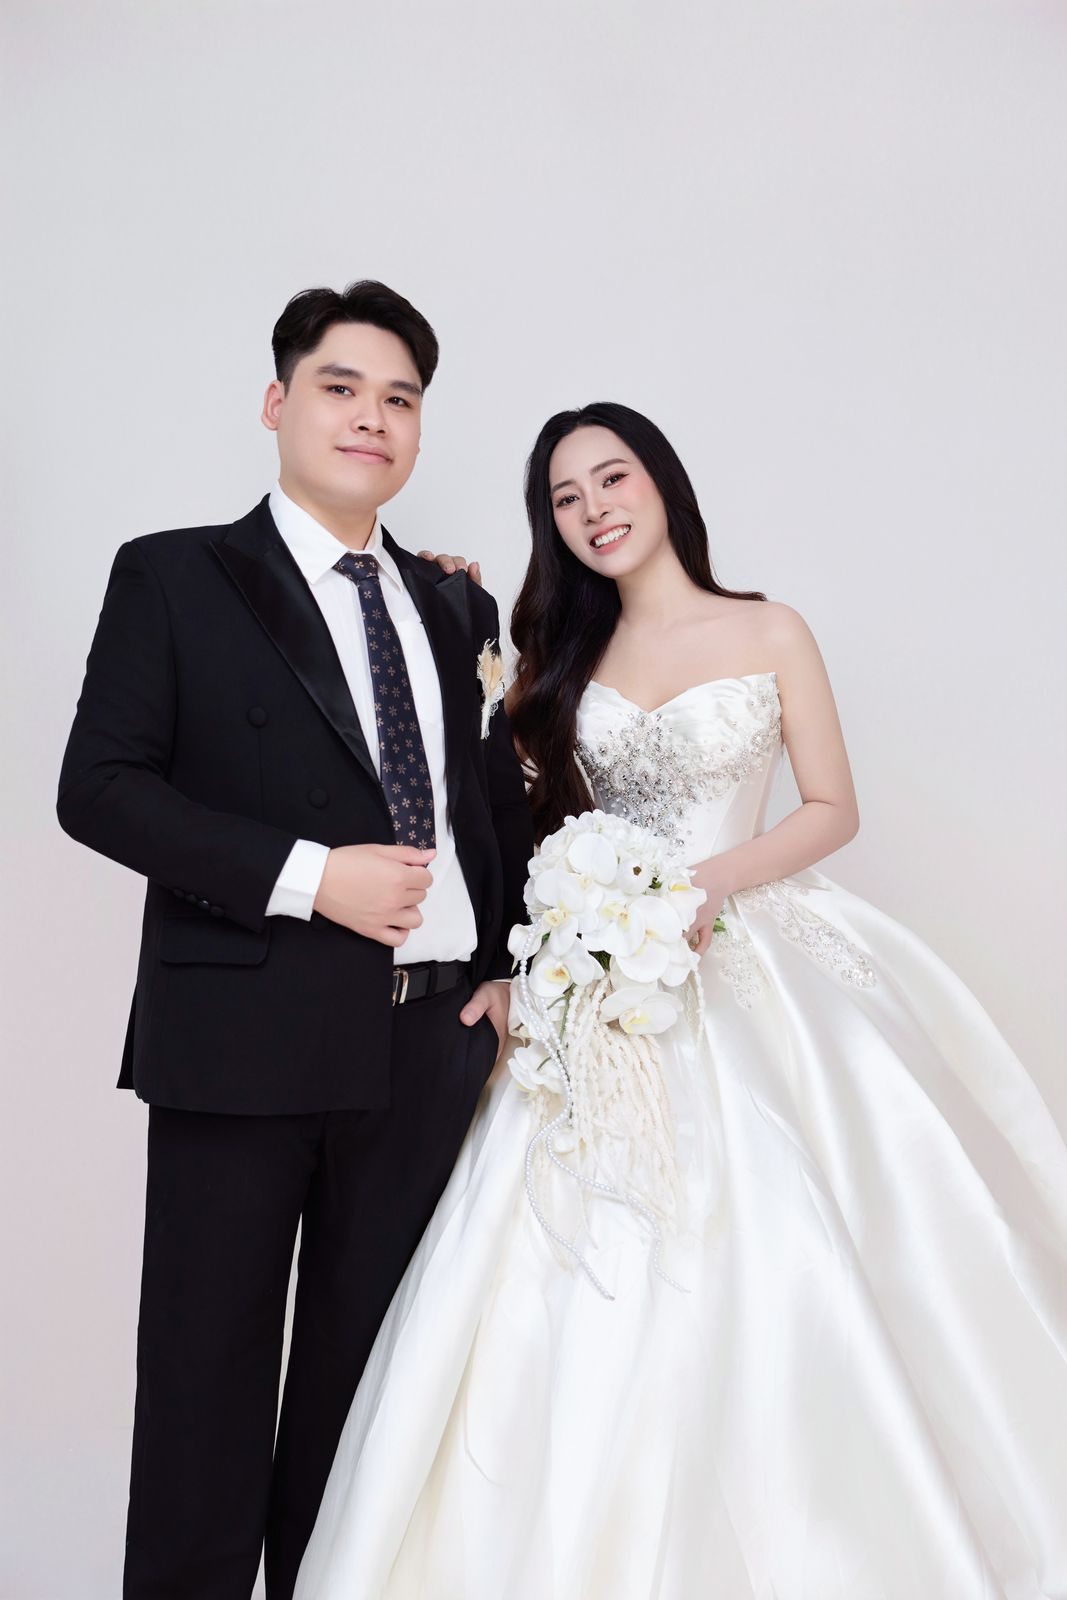
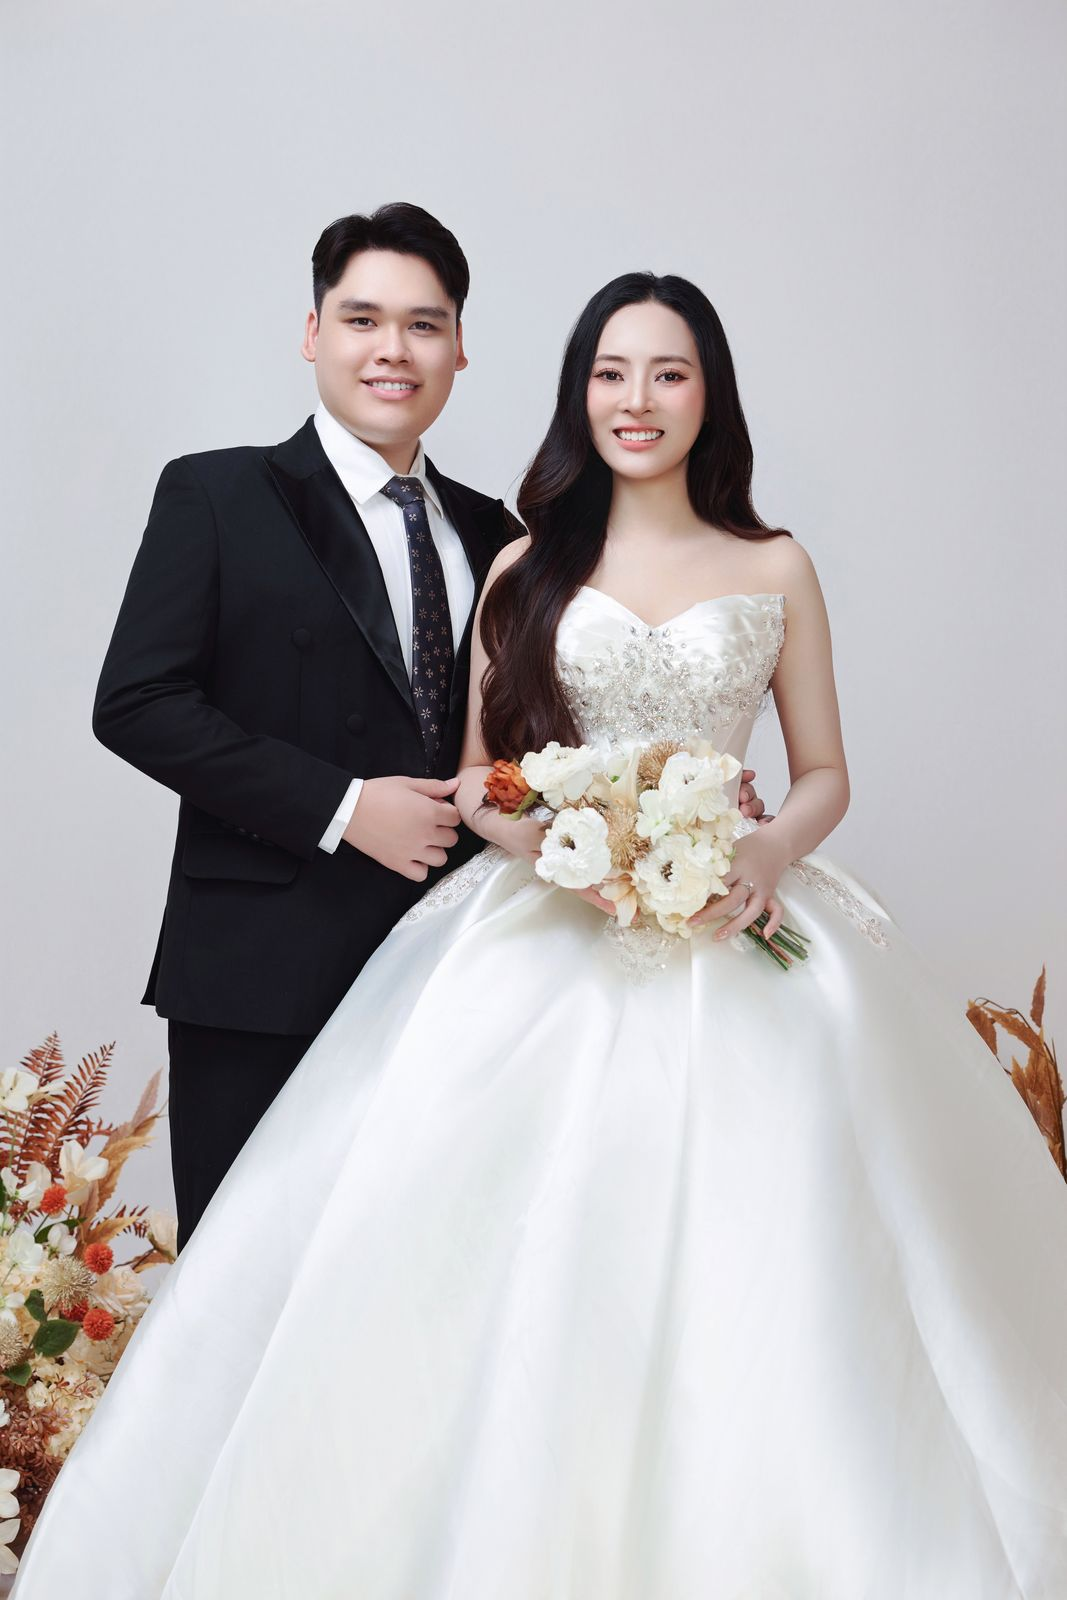
Đổi chỗ ảnh bìa và ảnh khung vòm (3882 lên bìa, 4036 vào khung vòm)
Claude-Session: https://claude.ai/code/session_013oSfTHRkbAXp6xpsoK4V9D

diff --git a/index.html b/index.html
@@ -32,7 +32,7 @@
   <link rel="preconnect" href="https://fonts.googleapis.com" />
   <link rel="preconnect" href="https://fonts.gstatic.com" crossorigin />
   <link href="https://fonts.googleapis.com/css2?family=Dancing+Script:wght@500;700&family=Playfair+Display:ital,wght@0,400;0,600;1,400&family=Be+Vietnam+Pro:wght@300;400;500;600&display=swap" rel="stylesheet" />
-  <link rel="preload" as="image" href="images/cover.jpg" fetchpriority="high" />
+  <link rel="preload" as="image" href="images/cover.jpg?v=2" fetchpriority="high" />
   <link rel="stylesheet" href="assets/css/style.css?v=13" />
 </head>
 <body class="locked">
@@ -162,7 +162,7 @@
   </div>
 
   <!-- Đổi số v=... mỗi khi sửa CSS/JS để trình duyệt tải bản mới -->
-  <script src="assets/js/config.js?v=12"></script>
+  <script src="assets/js/config.js?v=13"></script>
   <script src="assets/js/main.js?v=12"></script>
 </body>
 </html>

diff --git a/assets/js/config.js b/assets/js/config.js
@@ -96,8 +96,8 @@ window.WEDDING = {
    * Gợi ý nhóm ảnh nằm ở cuối mỗi dòng (xem thêm images/README.md).
    */
   photos: {
-    cover: "images/cover.jpg",           // 01 Toàn thân - Đứng (dọc)
-    portrait: "images/portrait.jpg",     // 03 Bán thân - Chính diện (dọc), khung vòm "Mãi bên nhau"
+    cover: "images/cover.jpg?v=2",           // 01 Toàn thân - Đứng (dọc)
+    portrait: "images/portrait.jpg?v=2",     // 03 Bán thân - Chính diện (dọc), khung vòm "Mãi bên nhau"
     couple: "images/couple.jpg",         // 02 Toàn thân - Tương tác (ngang), mở đầu album
     calendarBg: "images/detail.jpg",     // 09 Phông nền - Chi tiết, nền mờ sau lịch
     footer: "images/footer.jpg",         // 05 Cận cảnh - Ôm, hôn (dọc), kết thiệp

diff --git a/images/README.md b/images/README.md
@@ -6,8 +6,8 @@
 
 | Tên file | Vị trí trên thiệp | Ảnh gốc | Cạnh dài |
 |---|---|---|---|
-| `cover.jpg` | Bìa toàn màn hình (được preload) | 1M4A4036 | 1800px |
-| `portrait.jpg` | Khung vòm "Mãi bên nhau" | 1M4A3882 | 1600px |
+| `cover.jpg` | Bìa toàn màn hình (được preload) | 1M4A3882 | 1800px |
+| `portrait.jpg` | Khung vòm "Mãi bên nhau" | 1M4A4036 | 1600px |
 | `couple.jpg` | Ảnh ngang mở đầu Album | 1M4A3886 | 1600px |
 | `detail.jpg` | Nền mờ phía sau lịch | cắt tường hoa từ 1M4A4073 | 1200px |
 | `footer.jpg` | Kết thiệp "Thank you" | 1M4A4622 | 1600px |
